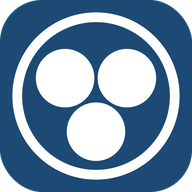
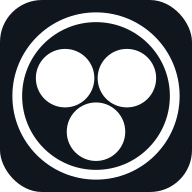
Make colour branding consistent

diff --git a/index.html b/index.html
@@ -5,8 +5,8 @@
         <title>Tubesheet Layout Generator</title>
         <meta name="viewport" content="width=device-width, initial-scale=1" />
         <meta name="Tubesheet Layout Generator" content="Tubesheet Layout Generator" />
-        <meta name="theme-color" content="#1C4A75" media="(prefers-color-scheme: light)" />
-        <meta name="theme-color" content="#0C1118" media="(prefers-color-scheme: dark)" />
+        <meta name="theme-color" content="#10161E" media="(prefers-color-scheme: light)" />
+        <meta name="theme-color" content="#10161E" media="(prefers-color-scheme: dark)" />
         <link
             rel="preload"
             href="/fonts/CommitMono VariableFont.woff2"
@@ -24,7 +24,7 @@
         <link rel="icon" href="/favicon.ico" sizes="32x32" />
         <link rel="icon" href="/icon.svg" type="image/svg+xml" />
         <link rel="apple-touch-icon" href="/apple-touch-icon.png" />
-        <link rel="mask-icon" href="/mask-icon.svg" color="#1C4A75" />
+        <link rel="mask-icon" href="/mask-icon.svg" color="#10161E" />
         <link rel="manifest" href="/manifest.webmanifest" />
 
         <meta property="og:type" content="website" />
